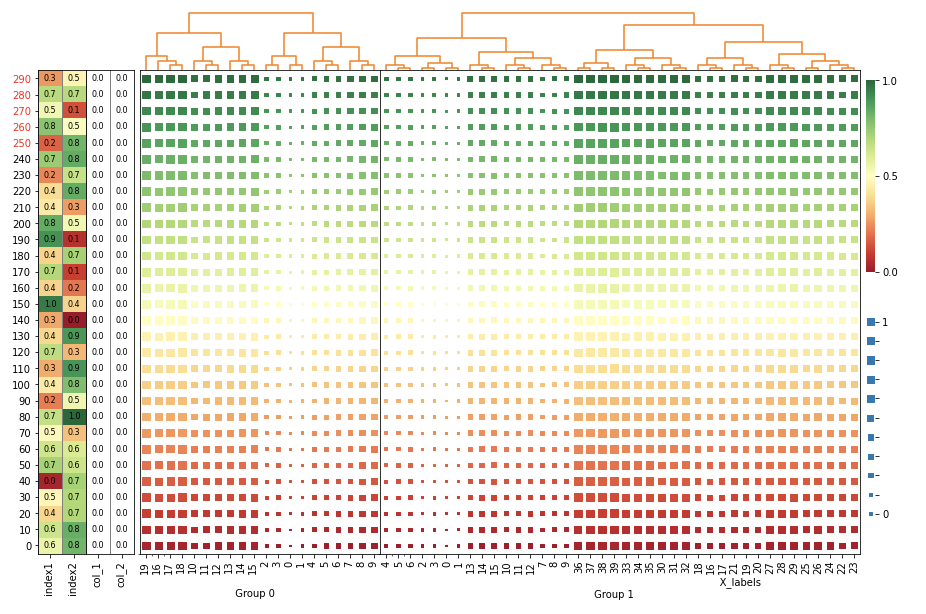
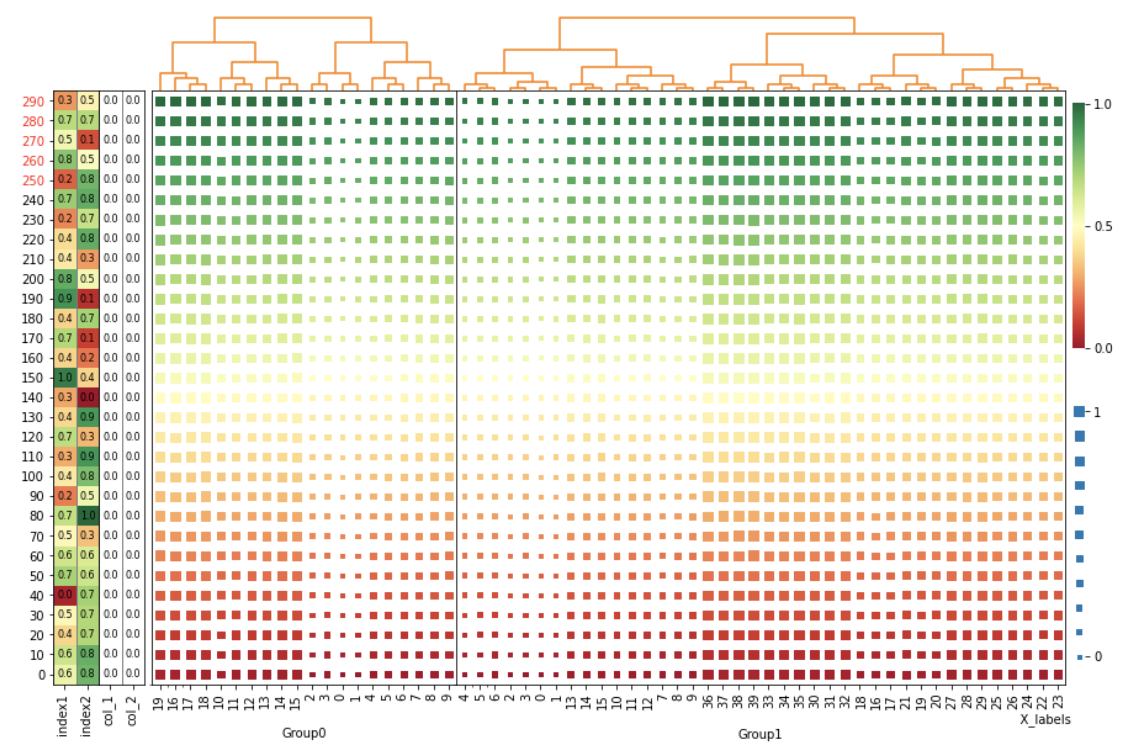
v0.2
Add 'space_in_size_bar'

diff --git a/new_heatmap.py b/new_heatmap.py
@@ -127,7 +127,7 @@ def annotate_heatmap(im, data=None, valfmt="{x:.1f}",
         for j in range(data.shape[1]):
             if threshold is None:
                 kw.update(color=textcolors[0])
-                text = im.axes.text(j, i, data[i, j], **kw)
+                text = im.axes.text(j, i, valfmt(data[i, j], None), **kw)
             else:
                 kw.update(color=textcolors[int(im.norm(abs(data[i, j])) > threshold)])
                 text = im.axes.text(j, i, valfmt(data[i, j], None), **kw)
@@ -163,7 +163,7 @@ def multi_group_heatmap(**kwargs):
 
     # ratio = len(x0) / (len(x0) + len(x1))
     # plot_grid = plt.GridSpec(1, 24, hspace=0.2, wspace=0.1) # Setup a 1x10 grid
-    plot_grid = plt.GridSpec(5,7,wspace=0.0,hspace=0.0,width_ratios=[4,4,0.5,group0.shape[1],group1.shape[1],0.5,0.8], height_ratios=[1,3.5,0.5,3.5, 0.5])
+    plot_grid = plt.GridSpec(5,7,wspace=0.0,hspace=0.0,width_ratios=[3,3,0.5,group0.shape[1],group1.shape[1],0.5,0.8], height_ratios=[1,3.5,0.5,3.5, 0.2])
 
 
 
@@ -205,8 +205,8 @@ def multi_group_heatmap(**kwargs):
     size_scale = kwargs.get('size_scale', 500)
     kwargs_pass_on = {k: v for k, v in kwargs.items() if k not in [
         'group0', 'group1', 'palette', 'color_range', 'size0', 'size1', 'size_range', 'size_scale', 'marker', 'col_pairwise_dists_0', 'col_pairwise_dists_1',
-        'group0_x_ticks', 'group1_x_ticks', 'y_order', 'xlabel', 'y_ticks','x_axis_label', 'chart_x_ticks', 'index_group_x_ticks', 'high_ligh_y_ticks',
-        'ylabel', 'clean_axis', 'color_bar', 'size_bar', 'col_clusters0', 'col_clusters1', 'x_mean', 'y_mean', 'index_group', 'x_order_mean','chart'
+        'group0_x_ticks', 'group1_x_ticks', 'y_order', 'xlabel', 'y_ticks', 'x_axis_label0', 'x_axis_label1', 'chart_x_ticks', 'index_group_x_ticks', 'high_ligh_y_ticks',
+        'ylabel', 'clean_axis', 'color_bar', 'size_bar', 'col_clusters0', 'col_clusters1', 'x_mean', 'y_mean', 'index_group', 'x_order_mean','chart','space_in_size_bar'
     ]}
     def value_to_color(val):
         if color_min == color_max:
@@ -236,7 +236,7 @@ def multi_group_heatmap(**kwargs):
             ax_cb.grid(False)  # Hide grid
             ax_cb.set_facecolor('white')  # Make background white
             ax_cb.set_xticks([])  # Remove horizontal ticks
-            ax_cb.set_yticks(np.linspace(min(bar_y), max(bar_y), 3))  # Show vertical ticks for min, middle and max
+            ax_cb.set_yticks(np.around(np.linspace(min(bar_y), (max(bar_y)), 3), 2))  # Show vertical ticks for min, middle and max
             ax_cb.yaxis.tick_right()  # Show vertical ticks on the right
 
             ax_cb.spines['top'].set_visible(False)
@@ -246,18 +246,22 @@ def multi_group_heatmap(**kwargs):
 
     if(if_size_bar == True):
         ax_sb = plt.subplot(plot_grid[3, 6])  # Use the rightmost column of the plot
+
+        if 'space_in_size_bar' in kwargs:
+            space_in_sb = kwargs['space_in_size_bar']
+
         ax_sb.scatter(
-            x=[0 for ii in range(11)],
-            y=[jj for jj in range(11)],
+            x=[0 for ii in range(0,11,space_in_sb)],
+            y=[jj for jj in range(0,11,space_in_sb)],
             marker=marker,
             # s=[(0 + 0.3*kk)*size_scale/3 for kk in range(11)],
-            s=[(ss*0.85/10 + 0.15)*size_scale for ss in range(11)],
+            s=[(ss*0.85/10 + 0.15)*size_scale for ss in range(0,11,space_in_sb)],
             **kwargs_pass_on
         )
         ax_sb.set_xticks([])  # Remove horizontal ticks
-        ax_sb.set_yticks(np.linspace(0, 10, 11))  # Show vertical ticks for min, middle and max
+        ax_sb.set_yticks(np.linspace(0, 10, 2))  # Show vertical ticks for min, middle and max
         # ax_sb.set_yticklabels(['0.0', '0.1', '0.2', '0.3', '0.4', '0.5', '0.6', '0.7', '0.8', '0.9', '1.0'])
-        ax_sb.set_yticklabels([int(size_min), ' ', ' ', ' ', ' ', ' ', ' ', ' ', ' ', ' ', int(size_max)])
+        ax_sb.set_yticklabels([str(size_min), str(round(size_max, 2))])
 
         ax_sb.yaxis.tick_right()  # Show vertical ticks on the right
 
@@ -300,7 +304,7 @@ def multi_group_heatmap(**kwargs):
         if size_min == size_max:
             return 1 * size_scale
         else:
-            val_position = (val - size_min) * 0.95 / (size_max - size_min) + 0.05 # position of value in the input range, relative to the length of the input range
+            val_position = (val - size_min) * 0.85 / (size_max - size_min) + 0.15 # position of value in the input range, relative to the length of the input range
             val_position = min(max(val_position, 0), 1) # bound the position betwen 0 and 1
             return val_position * size_scale
 
@@ -422,7 +426,10 @@ def multi_group_heatmap(**kwargs):
     ax2.set_xlabel(kwargs.get('xlabel', ''))
 
     ax2.get_yaxis().set_ticks([])
-    ax2.set_xlabel('\n  Group 0     ')
+    x_axis_label0 = ''
+    if 'x_axis_label0' in kwargs:
+        x_axis_label0 = kwargs['x_axis_label0']
+    ax2.set_xlabel(x_axis_label0)
 ##########################################################################
 
 
@@ -477,10 +484,10 @@ def multi_group_heatmap(**kwargs):
     ax2.set_xlabel(kwargs.get('xlabel', ''))
 
     ax2.get_yaxis().set_ticks([])
-    x_axis_label = ''
-    if 'x_axis_label' in kwargs:
-        x_axis_label = kwargs['x_axis_label']
-    ax2.set_xlabel(x_axis_label  +'\n Group 1     ')
+    x_axis_label1 = ''
+    if 'x_axis_label1' in kwargs:
+        x_axis_label1 = kwargs['x_axis_label1']
+    ax2.set_xlabel(x_axis_label1)
 
 
 
